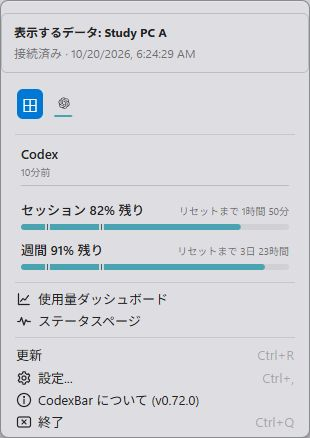
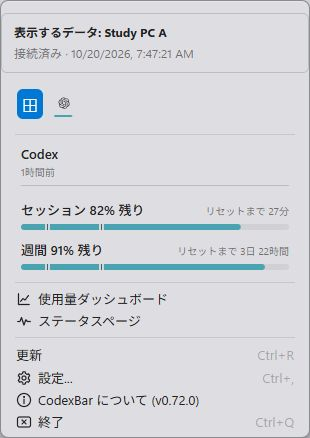
docs: verify the published Windows desktop receiver

diff --git a/docs/releases/v0.72.0.md b/docs/releases/v0.72.0.md
@@ -21,12 +21,14 @@ Windows同士・WindowsとMacで、取得済みの使用量・リセット時刻
 
 Windowsで全Rustテスト（コア4,872件／CLI 1件／デスクトップ788件）、全フロントエンド1,358件が成功しました。接続先切替後に遅れた設定応答が戻る回帰テストは、修正前に失敗・修正後に成功することを確認しました。全ターゲットClippy、型チェック、フロントエンドビルドも成功しました。
 
-新しくビルドしたWindowsアプリの2インスタンスを独立したデモ設定で起動し、UIからのコード登録、双方向受信、受信データを再送しないこと、ローカル設定の保持、送信元停止時の最後の値・オフライン表示、ローカルへのUI切替、アプリ差し替え・再起動後の接続復元を確認しました。ダッシュボードの表示元名と受信使用量も実画面で確認しています。これは1台のWindows PC上でのネイティブ検証で、複数実機間のTailscale経路を確認したものではありません。
+公開ページからダウンロードしたEXEのハッシュ・バージョンを照合し、独立したデモ設定の2インスタンスで双方向受信、受信データを再送しないこと、ローカル設定の保持、UIでの表示元切替、送信元停止時の最後の値・オフライン表示、オフライン中のローカルへの切替、再起動後の接続と共有の復元を確認しました。ダッシュボードの表示元名と受信使用量も実画面で確認しています。開発ビルドではUIからのコード登録・入力欄の消去も確認しています。これは1台のWindows PC上でのネイティブ検証で、複数実機間のTailscale経路を確認したものではありません。
 
-![受信設定・開発ビルド、デモデータ](https://raw.githubusercontent.com/lingmulongtai/Win-CodexBar-Mobile-Connect/21e16ca912097da9a4cec8267b5ba908ab31efc4/docs/images/mobile-connect/windows-v0.72.0-peer-settings-ja.jpg)
[1 lines of base64/hex data omitted]
 
-![受信ダッシュボード・開発ビルド、デモデータ](https://raw.githubusercontent.com/lingmulongtai/Win-CodexBar-Mobile-Connect/21e16ca912097da9a4cec8267b5ba908ab31efc4/docs/images/mobile-connect/windows-v0.72.0-peer-dashboard-ja.jpg)
+![受信設定・公開EXE、デモデータ](https://github.com/lingmulongtai/Win-CodexBar-Mobile-Connect/releases/download/v0.72.0/windows-v0.72.0-peer-settings-ja.jpg)
 
-MacのネイティブCIは別リポジトリで実行中です。Mac実機間のTailscale接続とGoogleログインは、利用できる実機がないため未実施です。
+![受信ダッシュボード・公開EXE、デモデータ](https://github.com/lingmulongtai/Win-CodexBar-Mobile-Connect/releases/download/v0.72.0/windows-v0.72.0-peer-dashboard-ja.jpg)
+
+Macのネイティブビルド・起動の検証結果は[Mac版のリリース](https://github.com/lingmulongtai/CodexBar-Mac-Mobile-Connect/releases)で別途掲載します。Mac実機間のTailscale接続とGoogleログインは、利用できる実機がないため未実施です。
 
 Windows EXEは署名なしです。既存のWebView2 Runtimeを利用し、更新時はアプリを終了してEXEを置き換えます。設定フォルダを削除しなければ既存の接続設定を引き継ぎます。

diff --git a/docs/adr/0007-desktop-peer-connections.md b/docs/adr/0007-desktop-peer-connections.md
@@ -57,3 +57,9 @@ At source `5aac54214af09568a1ff720838812e744b5a99a2`, the Windows workspace pass
 Two newly built desktop processes ran with separate settings and WebView profiles, seeded Codex/Claude fixtures, loopback-only sharing ports and no provider credentials. Actual UI code entry saved a source and cleared its masked code field. Both directions continued showing the opposite PC's own fixture (Codex 18% / Claude 37%) without relaying received data. Local enabled-provider lists were unchanged. An offline sender retained its last value with offline status; the UI source selector returned to the receiver's local data. Replacing/restarting both proof binaries retained saved receiver selection and sharing configuration. The remove control stayed enabled offline; removal itself is covered by the connection-store and UI tests, not a native delete action.
 
 Real-pixel Windows screenshots were captured through the available Computer Use (Sky) runtime; the isolated app's local CDP endpoint controlled and asserted its WebView. No CuaDriver-specific DWM/tray-menu proof is claimed. Screenshots show synthetic data and development binaries; published-artifact confirmation is recorded separately when available. Proof processes were stopped afterward; the installed resident and Gemini profile were not changed. Physical cross-PC and Mac/Tailscale acceptance remain separate from this single-host test.
+
+## Published Windows artifact verification
+
[1 lines of base64/hex data omitted]
+
+Both isolated profiles then ran that exact downloaded EXE. Mutual Codex/Claude receiving without relay, saved selection, unchanged local provider preferences, UI switching in both directions, last-value retention and local switching with the sender stopped, enabled offline removal, and restart restoration of receiving/sharing all passed. Native settings/dashboard captures in the README now show this published binary. Both proof processes were stopped after verification. These remain single-host Windows tests with synthetic data, not physical Mac or cross-PC Tailscale acceptance.

diff --git a/README.md b/README.md
@@ -63,7 +63,7 @@ History and spend use the selected PC’s saved observations, reporting period a
 
 [Mac app and desktop connection guide](https://github.com/lingmulongtai/CodexBar-Mac-Mobile-Connect) · [All three apps in one GitHub Project](https://github.com/users/lingmulongtai/projects/3)
 
-Native Windows v0.72.0 development build, isolated synthetic profiles; the images do not contain account data or connection keys.
+Downloaded public Windows v0.72.0 EXE, isolated synthetic profiles; the images do not contain account data or connection keys. Mutual receiving, UI source switching, offline retention and restart restoration were checked against the released binary.
 
 ![Desktop receiving settings](docs/images/mobile-connect/windows-v0.72.0-peer-settings-ja.jpg)
 
